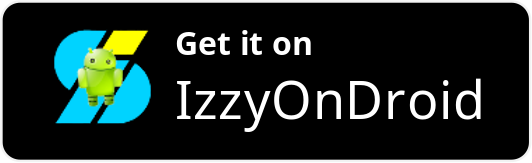
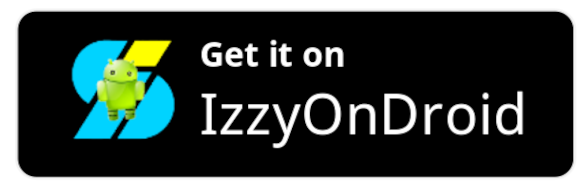
fix(README): resize IzzyOnDroid badge

diff --git a/README.md b/README.md
@@ -27,8 +27,8 @@ AstraCrypt - is a free, powerful and open-source encryption app that has everyth
 <p align="left">
   <a href="https://apt.izzysoft.de/fdroid/index/apk/com.nevidimka655.astracrypt">
     <picture>
-      <source media="(prefers-color-scheme: dark)" srcset="docs/assets/badge_izzy-on-droid.png" height="55">
-      <img alt="Get it on IzzyOnDroid" src="docs/assets/badge_izzy-on-droid.png" height="55">
+      <source media="(prefers-color-scheme: dark)" srcset="docs/assets/badge_izzy-on-droid.png" height="60">
+      <img alt="Get it on IzzyOnDroid" src="docs/assets/badge_izzy-on-droid.png" height="60">
     </picture>
   </a>
   <a href="https://github.com/gromif/AstraCrypt/releases/latest">
